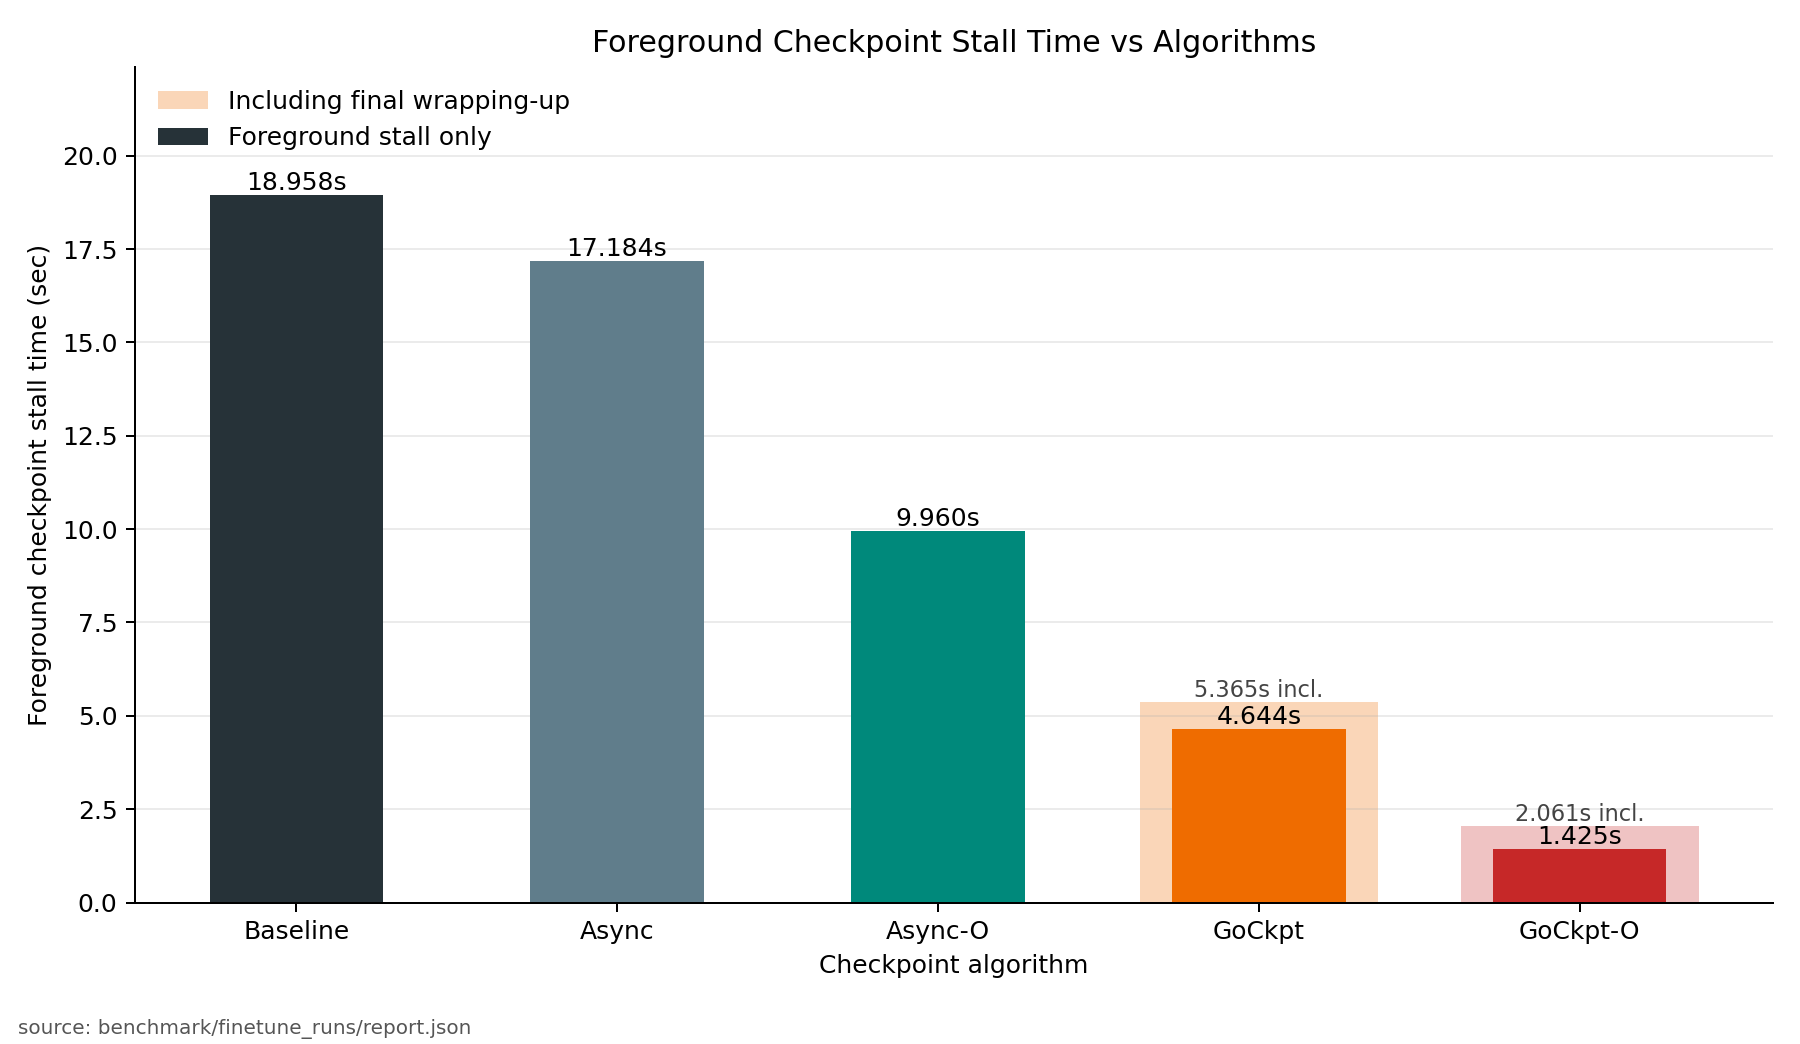
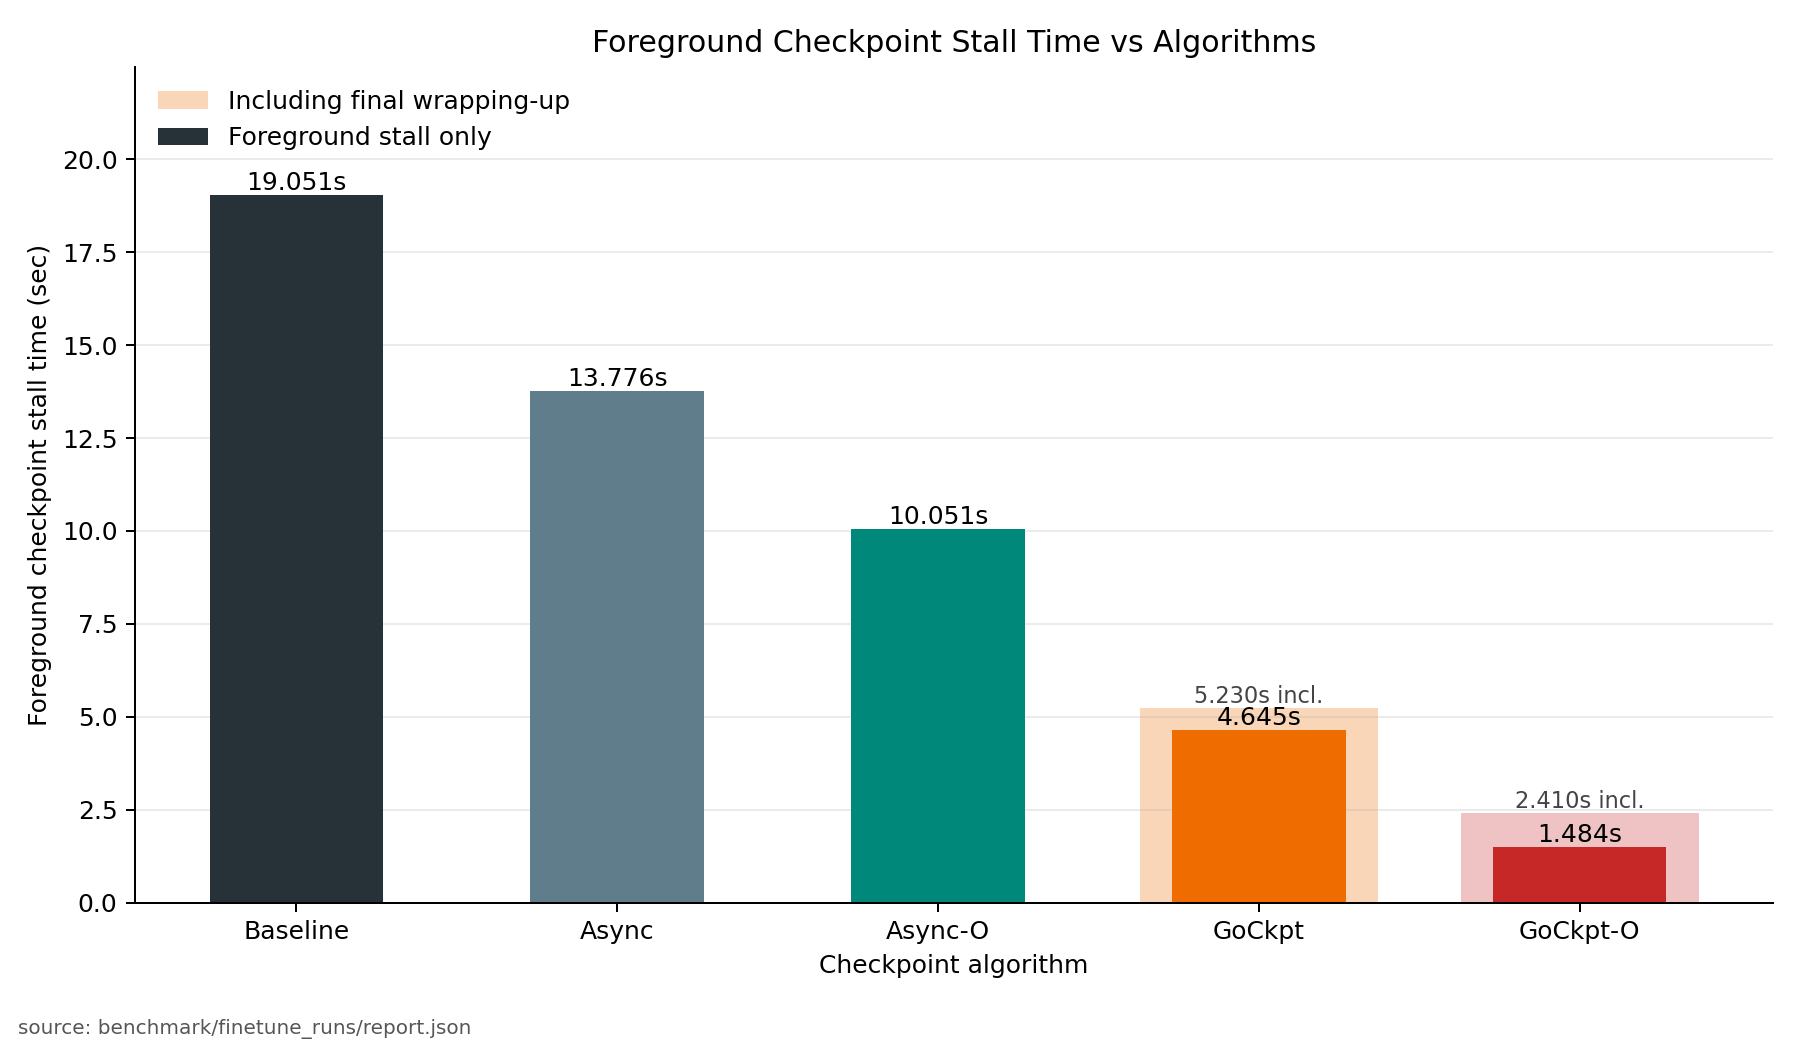
fix: fixed gockp

diff --git a/src/gockpt_hook.py b/src/gockpt_hook.py
@@ -67,6 +67,15 @@ class PendingCheckpointWorker:
 
 
 @dataclass
+class GoCkptPendingGradientTransfer:
+    step: int
+    gradients: dict[str, torch.Tensor | None]
+    source_refs: dict[str, torch.Tensor]
+    event: torch.cuda.Event | None
+    submitted_at: float
+
+
+@dataclass
 class FlatReplayBlock:
     partition_index: int
     names: list[str]
@@ -84,9 +93,6 @@ class GoCkptRuntime:
     transferred_partitions: set[int] = field(default_factory=set)
     partition_events: dict[int, torch.cuda.Event | None] = field(default_factory=dict)
     transferred_blocks: dict[str, ParameterSnapshot] = field(default_factory=dict)
-    gradients_by_step: dict[int, dict[str, torch.Tensor | None]] = field(
-        default_factory=dict
-    )
     optimizer_param_groups_by_step: dict[int, dict[str, dict[str, Any]]] = field(
         default_factory=dict
     )
@@ -147,6 +153,13 @@ class GoCkptCheckpointHook(BaselineCheckpointHook):
         self._transfer_stream = (
             torch.cuda.Stream() if torch.cuda.is_available() else None
         )
+        self._gradient_stream = (
+            torch.cuda.Stream() if torch.cuda.is_available() else None
+        )
+        self._pending_gradient_refs: dict[
+            int, dict[str, torch.Tensor | None]
+        ] = {}
+        self._pending_gradient_transfers: dict[int, GoCkptPendingGradientTransfer] = {}
         self._ds_cpu_adam_local = threading.local()
         self._ringbuffer_pressure_lock = threading.Lock()
         self._ringbuffer_pressure_t0 = time.perf_counter()
@@ -315,9 +328,7 @@ class GoCkptCheckpointHook(BaselineCheckpointHook):
         if runtime is None or not self._is_step_in_request(runtime, step):
             return
 
-        grad_start = time.perf_counter()
         gradients_for_step: dict[str, torch.Tensor | None] = {}
-        gradient_refs: dict[str, torch.Tensor] = {}
         for name, snapshot in runtime.transferred_blocks.items():
             if snapshot.version_step > step:
                 continue
@@ -328,36 +339,36 @@ class GoCkptCheckpointHook(BaselineCheckpointHook):
                 gradients_for_step[name] = None
                 continue
 
-            gradient_refs[name] = grad.detach()
+            gradients_for_step[name] = grad.detach()
 
-        gradients_for_step.update(self._copy_gradients_to_cpu_blocking(gradient_refs))
+        if not gradients_for_step:
+            return
 
-        runtime.gradients_by_step[step] = gradients_for_step
-        if runtime.result is not None:
-            runtime.result.gradient_duration_sec += time.perf_counter() - grad_start
+        self._pending_gradient_refs[step] = gradients_for_step
 
     def update_begin(self, step: int) -> None:
         runtime = self._active_runtime
         if runtime is None or not self._is_step_in_request(runtime, step):
             return
 
-        gradients_for_step = runtime.gradients_by_step.pop(step, {})
-        if not gradients_for_step:
-            return
-
-        optimizer_param_groups = self._snapshot_optimizer_param_groups_by_name()
-        runtime.optimizer_param_groups_by_step[step] = optimizer_param_groups
-        self._enqueue_reconstruction(
-            runtime,
-            step,
-            gradients_for_step,
-            optimizer_param_groups,
-        )
+        runtime.optimizer_param_groups_by_step[
+            step
+        ] = self._snapshot_optimizer_param_groups_by_name()
+        gradients_for_step = self._pending_gradient_refs.pop(step, None)
+        if gradients_for_step:
+            self._pending_gradient_transfers[step] = (
+                self._submit_async_gradient_transfer(step, gradients_for_step)
+            )
+        self._wait_current_partition_transfer_before_update(runtime, step)
 
     def update_end(self, step: int) -> None:
         runtime = self._active_runtime
         if runtime is None:
             return
+
+        if self._is_step_in_request(runtime, step):
+            self._finish_pending_gradient_transfer(runtime, step)
+
         if step != runtime.request.target_step - 1:
             return
 
@@ -387,6 +398,8 @@ class GoCkptCheckpointHook(BaselineCheckpointHook):
                 "training ended before checkpoint target step was reached",
             )
             self._stop_reconstruction_worker(runtime)
+            self._pending_gradient_refs.clear()
+            self._pending_gradient_transfers.clear()
             self._active_runtime = None
 
         while True:
@@ -915,29 +928,76 @@ class GoCkptCheckpointHook(BaselineCheckpointHook):
             target_flat[start:end].copy_(source_flat[start:end], non_blocking=True)
         return cpu_tensor
 
-    def _copy_gradients_to_cpu_blocking(
+    def _submit_async_gradient_transfer(
         self,
-        gradients: dict[str, torch.Tensor],
-    ) -> dict[str, torch.Tensor]:
-        if not gradients:
-            return {}
+        step: int,
+        gradients: dict[str, torch.Tensor | None],
+    ) -> GoCkptPendingGradientTransfer:
+        cpu_gradients: dict[str, torch.Tensor | None] = {}
+        source_refs: dict[str, torch.Tensor] = {}
+        submitted_at = time.perf_counter()
 
-        if self._transfer_stream is None:
-            return {name: grad.cpu().clone() for name, grad in gradients.items()}
+        if self._gradient_stream is None:
+            for name, grad in gradients.items():
+                if grad is None:
+                    cpu_gradients[name] = None
+                    continue
+                source_refs[name] = grad
+                cpu_gradients[name] = grad.cpu().clone()
+            return GoCkptPendingGradientTransfer(
+                step=step,
+                gradients=cpu_gradients,
+                source_refs=source_refs,
+                event=None,
+                submitted_at=submitted_at,
+            )
 
-        copied: dict[str, torch.Tensor] = {}
-        stream = torch.cuda.current_stream()
-        for name, grad in gradients.items():
-            if grad.device.type != "cuda":
-                copied[name] = grad.cpu().clone()
-                continue
-
-            copied[name] = self._copy_cuda_tensor_to_pinned_cpu(grad)
+        current_stream = torch.cuda.current_stream()
+        self._gradient_stream.wait_stream(current_stream)
+        with torch.cuda.stream(self._gradient_stream):
+            for name, grad in gradients.items():
+                if grad is None:
+                    cpu_gradients[name] = None
+                    continue
+                source_refs[name] = grad
+                cpu_gradients[name] = self._copy_cuda_tensor_to_pinned_cpu(grad)
 
         event = torch.cuda.Event()
-        event.record(stream)
-        event.synchronize()
-        return copied
+        event.record(self._gradient_stream)
+        return GoCkptPendingGradientTransfer(
+            step=step,
+            gradients=cpu_gradients,
+            source_refs=source_refs,
+            event=event,
+            submitted_at=submitted_at,
+        )
+
+    def _finish_pending_gradient_transfer(
+        self,
+        runtime: GoCkptRuntime,
+        step: int,
+    ) -> None:
+        pending = self._pending_gradient_transfers.pop(step, None)
+        if pending is None:
+            return
+
+        if pending.event is not None:
+            pending.event.synchronize()
+
+        optimizer_param_groups = runtime.optimizer_param_groups_by_step.get(step)
+        if optimizer_param_groups is None:
+            optimizer_param_groups = self._snapshot_optimizer_param_groups_by_name()
+            runtime.optimizer_param_groups_by_step[step] = optimizer_param_groups
+
+        self._enqueue_reconstruction(
+            runtime,
+            step,
+            pending.gradients,
+            optimizer_param_groups,
+        )
+
+        if runtime.result is not None:
+            runtime.result.gradient_duration_sec += time.perf_counter() - pending.submitted_at
 
     def _wait_partition_transfer(
         self, runtime: GoCkptRuntime, partition_index: int
@@ -948,6 +1008,21 @@ class GoCkptCheckpointHook(BaselineCheckpointHook):
 
         event.synchronize()
         runtime.partition_events[partition_index] = None
+
+    def _wait_current_partition_transfer_before_update(
+        self,
+        runtime: GoCkptRuntime,
+        step: int,
+    ) -> None:
+        partition_index = step - runtime.request.start_step
+        if partition_index < 0 or partition_index >= len(runtime.partitions):
+            return
+        if partition_index not in runtime.transferred_partitions:
+            return
+
+        # The partition snapshot reads model parameters and optimizer states.
+        # It must complete before optimizer.step() mutates those tensors.
+        self._wait_partition_transfer(runtime, partition_index)
 
     def _apply_cpu_adamw_update(
         self,

diff --git a/src/gockpt_o_hook.py b/src/gockpt_o_hook.py
@@ -42,7 +42,7 @@ class GoCkptOCheckpointHook(GoCkptCheckpointHook):
 
     Difference from GoCkpt:
     - model/optimizer partition transfer is unchanged
-    - gradient GPU->CPU transfer is submitted asynchronously after backward
+    - gradient GPU->CPU transfer is submitted asynchronously at update_begin
     - that transfer may overlap with the current update and the next step's
       forward pass
     - the transfer must complete before the next backward begins, because that
@@ -98,8 +98,7 @@ class GoCkptOCheckpointHook(GoCkptCheckpointHook):
         if not gradients:
             return
 
-        transfer = self._submit_async_gradient_transfer(step, gradients)
-        self._pending_gradient_transfers[step] = transfer
+        self._pending_gradient_refs[step] = gradients
 
     def update_begin(self, step: int) -> None:
         runtime = self._active_runtime
@@ -109,6 +108,12 @@ class GoCkptOCheckpointHook(GoCkptCheckpointHook):
         runtime.optimizer_param_groups_by_step[step] = (
             self._snapshot_optimizer_param_groups_by_name()
         )
+        gradients = self._pending_gradient_refs.pop(step, None)
+        if gradients:
+            self._pending_gradient_transfers[step] = (
+                self._submit_async_gradient_transfer(step, gradients)
+            )
+        self._wait_current_partition_transfer_before_update(runtime, step)
 
     def update_end(self, step: int) -> None:
         runtime = self._active_runtime

diff --git a/src/async_o_hook.py b/src/async_o_hook.py
@@ -31,8 +31,8 @@ class AsyncOCheckpointHook(BaselineCheckpointHook):
     2. That transfer is allowed to overlap with the same step's forward and
        backward passes because those phases do not mutate model / optimizer
        state.
-    3. `update_begin(step)` is the synchronization barrier. If the transfer for
-       that same step has not finished yet, the update phase waits there before
+    3. `backward_end(step)` is the synchronization barrier. If the transfer for
+       that same step has not finished yet, training waits there before
        optimizer state mutation begins.
     4. After transfer completes, checkpoint persistence continues in a
        background CPU thread via `torch.save`.
@@ -123,12 +123,12 @@ class AsyncOCheckpointHook(BaselineCheckpointHook):
         return
 
     def backward_end(self, step: int) -> None:
-        return
-
-    def update_begin(self, step: int) -> None:
         pending_started_step = self._pending_started_step
         if pending_started_step is not None and step == pending_started_step:
             self.wait_for_pending_transfer()
+
+    def update_begin(self, step: int) -> None:
+        return
 
     def update_end(self, step: int) -> None:
         return

diff --git a/benchmark/manual_record.md b/benchmark/manual_record.md
@@ -1,0 +1,4 @@
+Async (1/3): 10.518s
+Async-O (1/3): 1.041s
+GoCkpt (1/3): 4.376s
+GoCkpt-O (1/3): 1.290s